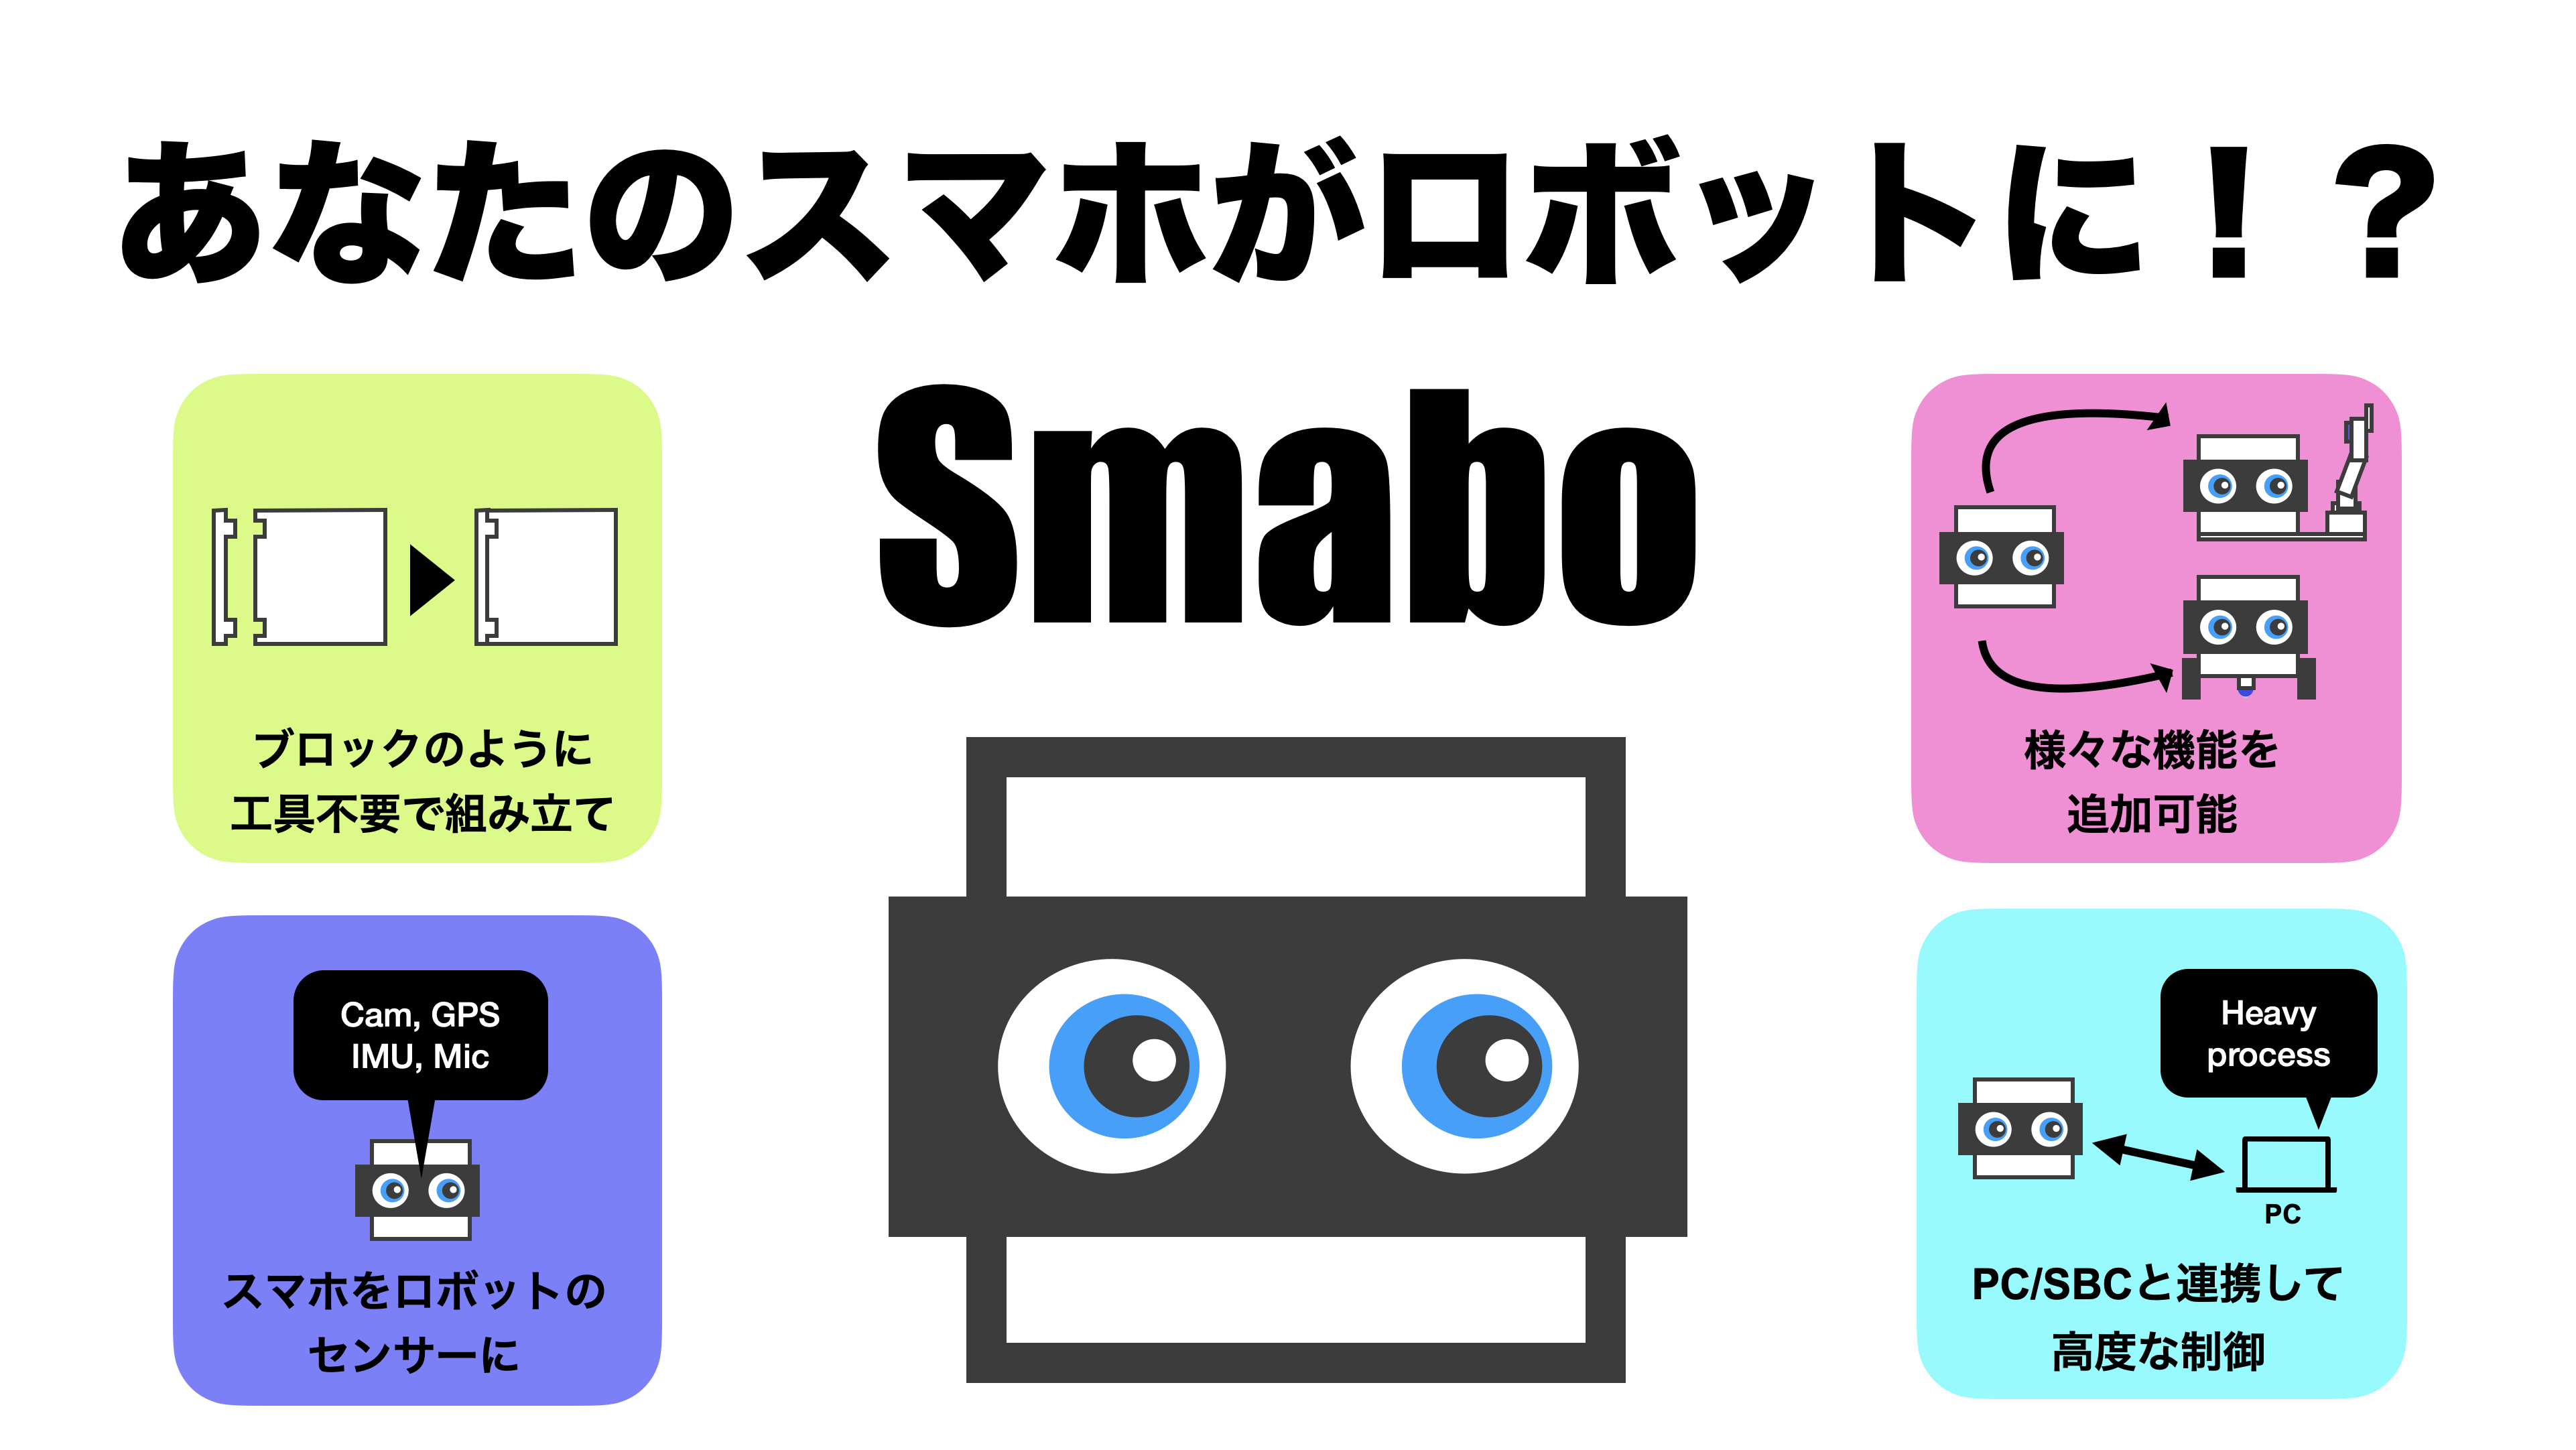
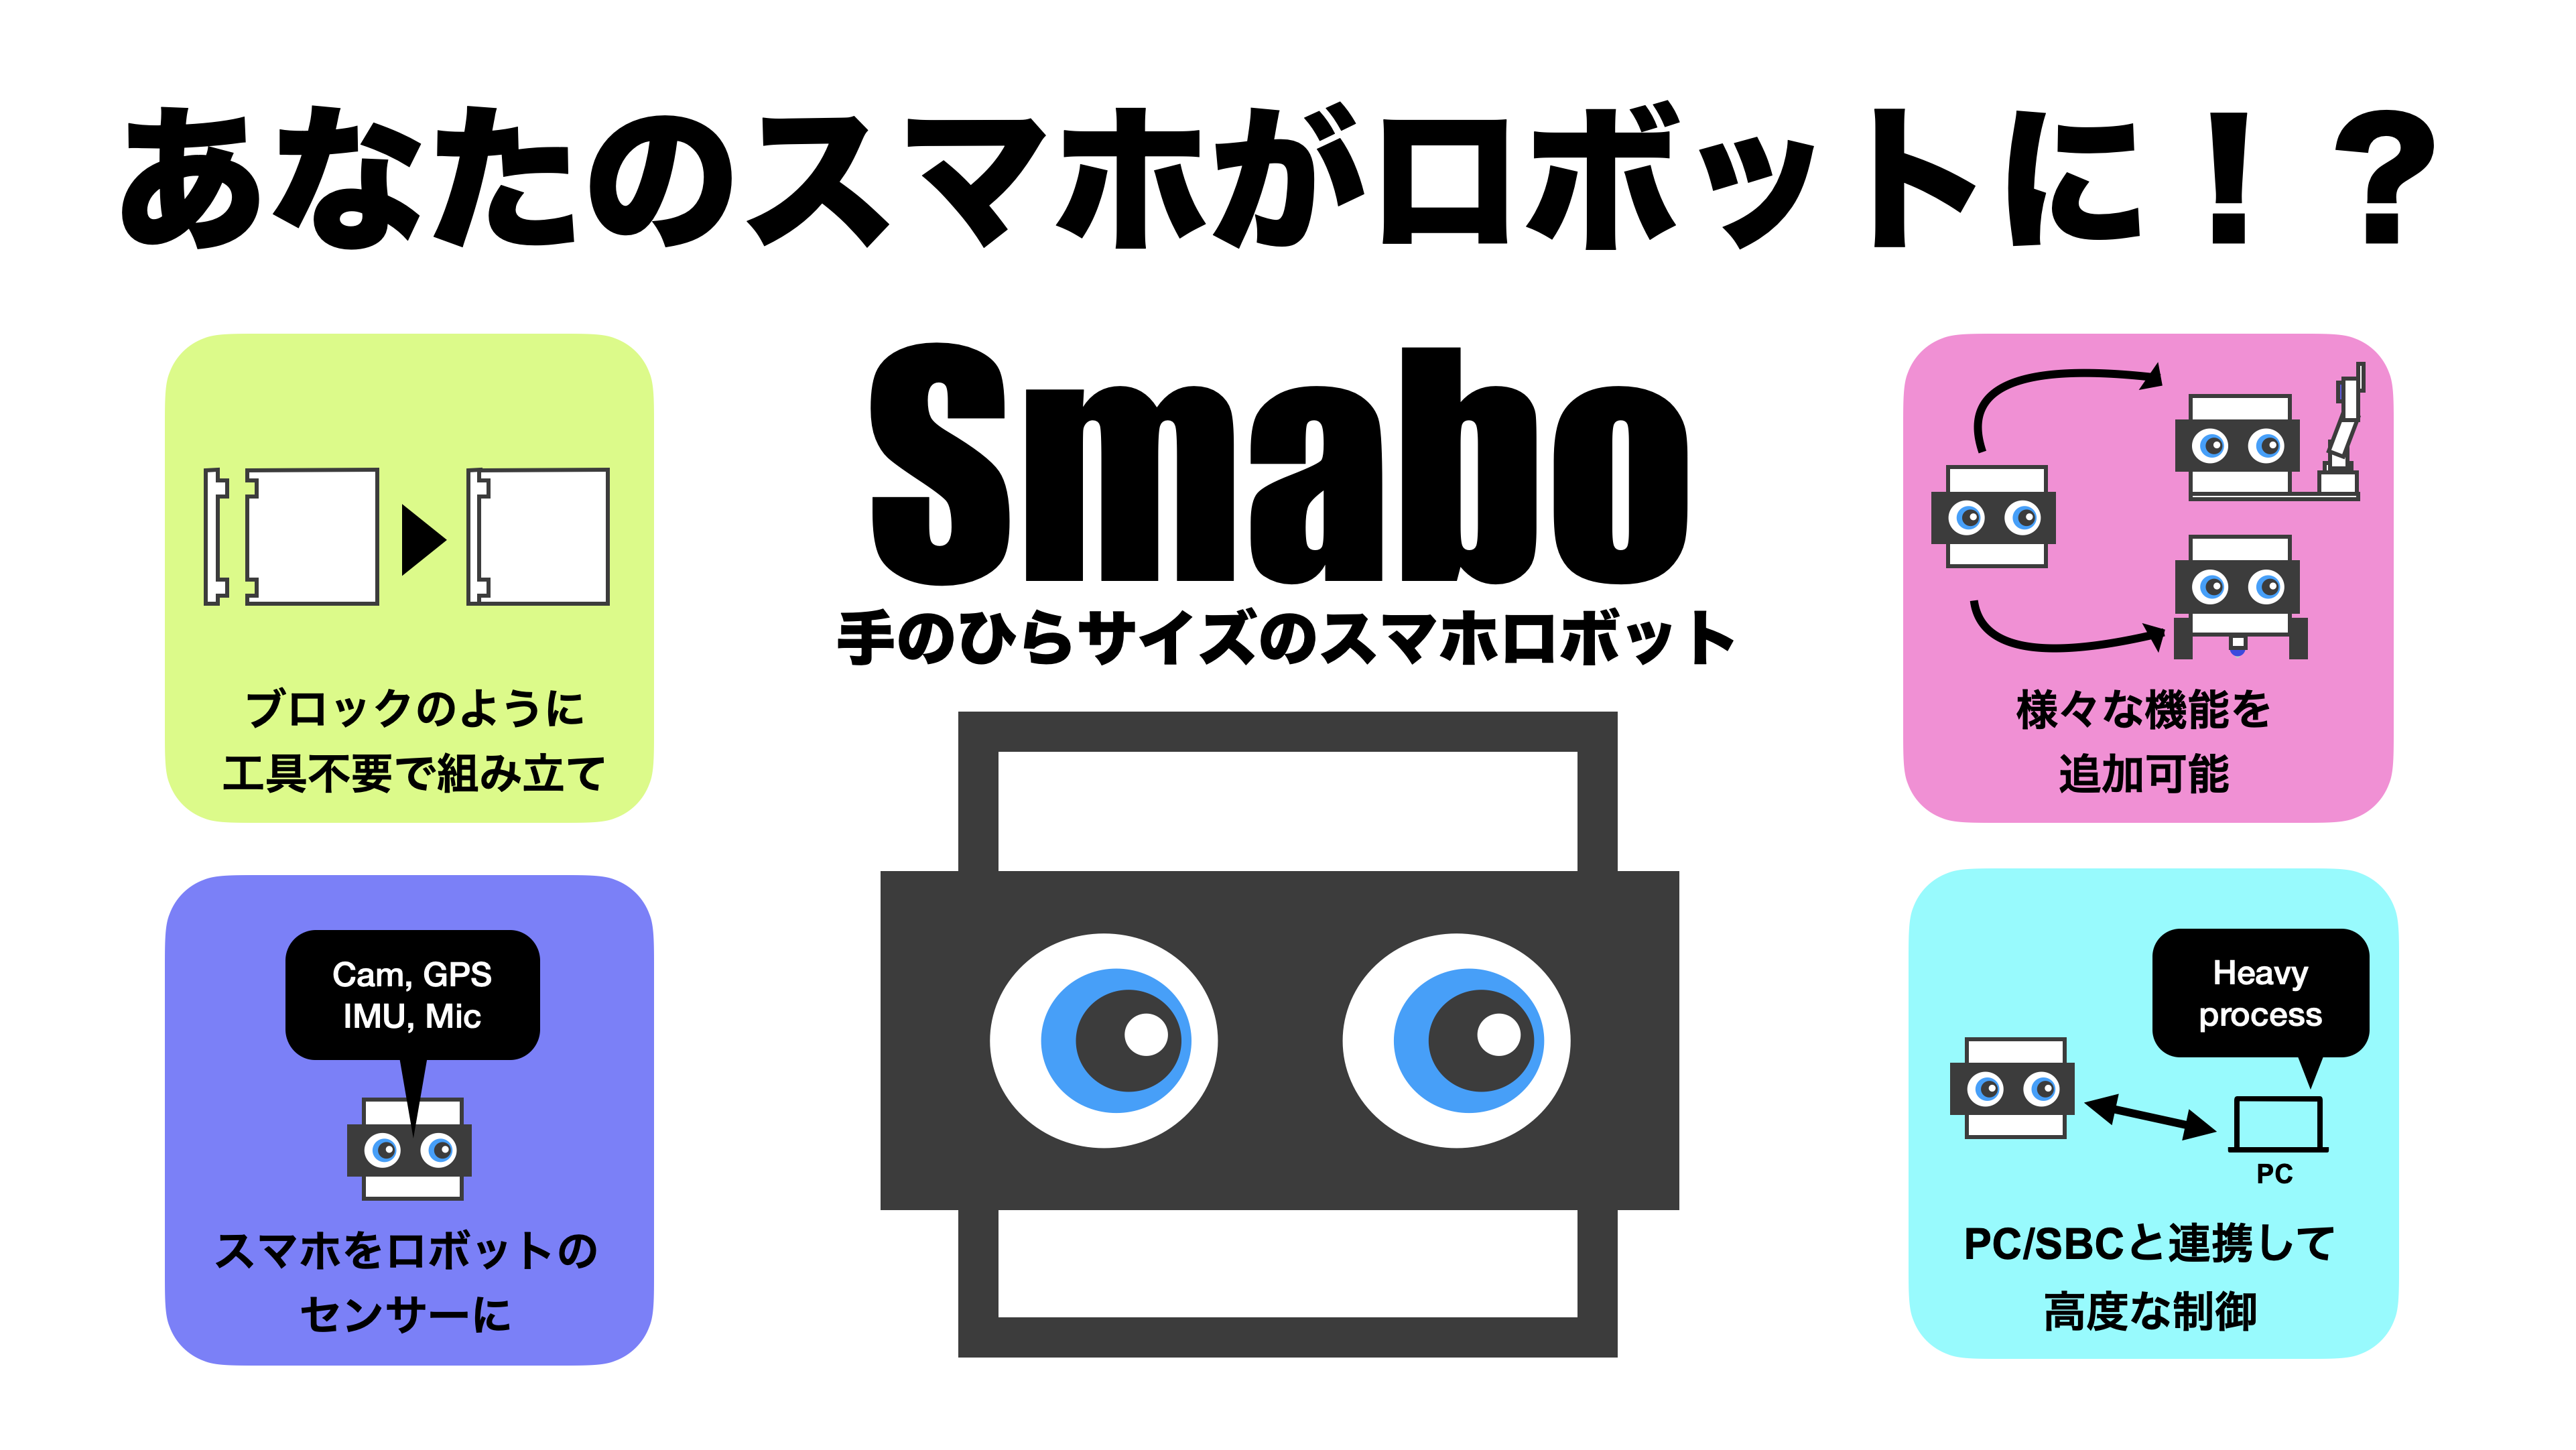
update hero img

diff --git a/docs/index.html b/docs/index.html
@@ -38,7 +38,7 @@
     <div class="container" style="padding-block:0px">
         <article class="doc-content" style="max-width:none">
 
-<p>smaboは工具不要で組み立て可能なスマホ搭載ロボットです。</p>
+<p>smaboは工具不要で組み立て可能なスマホ搭載ロボットです。</h1>
 
 <h2 id="ロードマップ">ロードマップ<a class="headerlink" href="#ロードマップ" title="Permanent link">#</a></h2>
 <p>各ブロックから、詳細ページにジャンプできます</p>